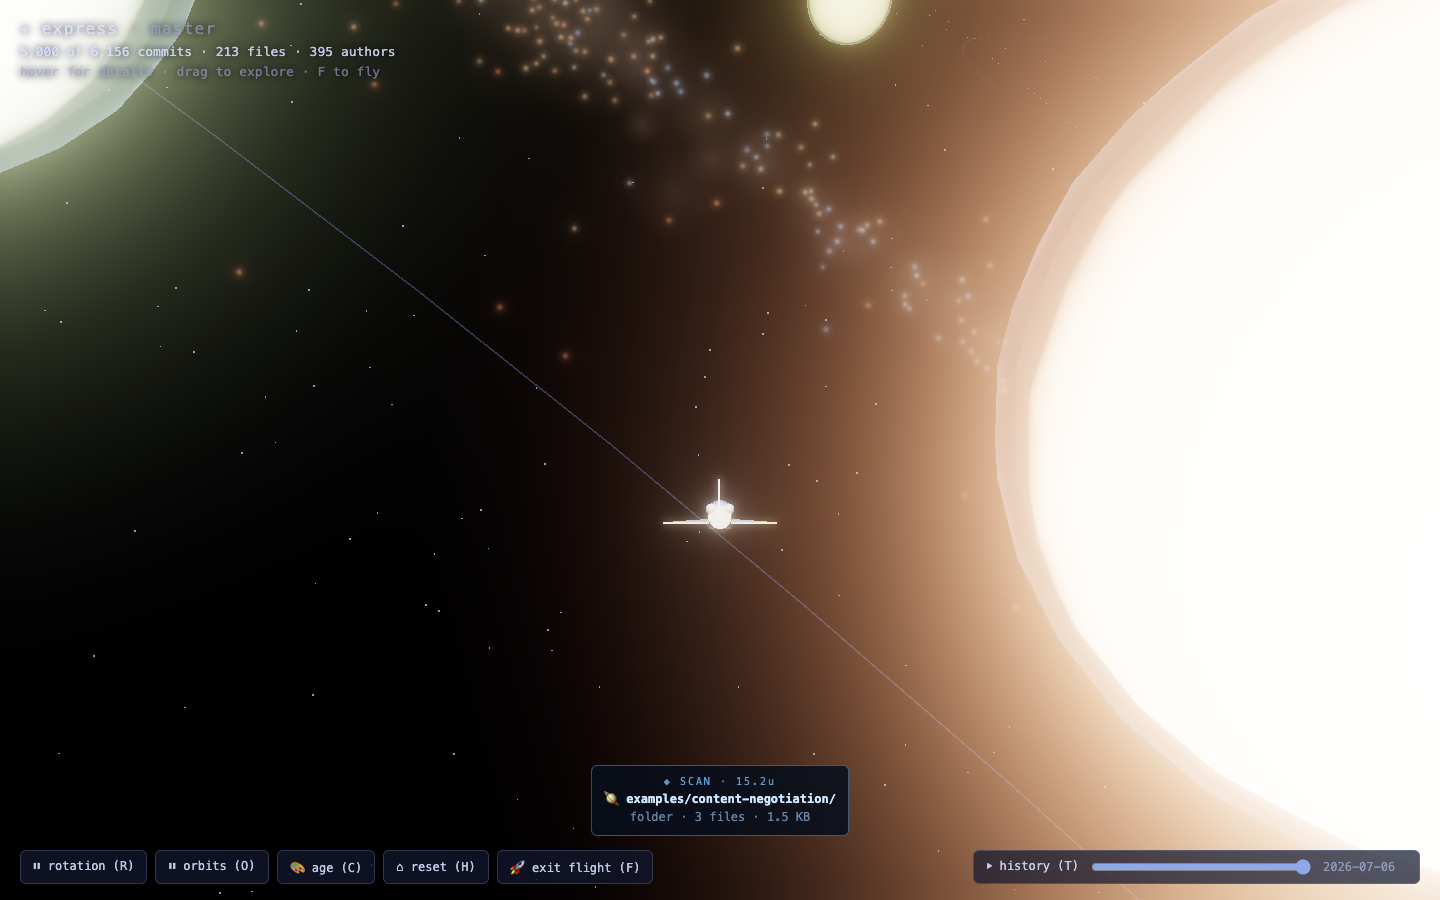
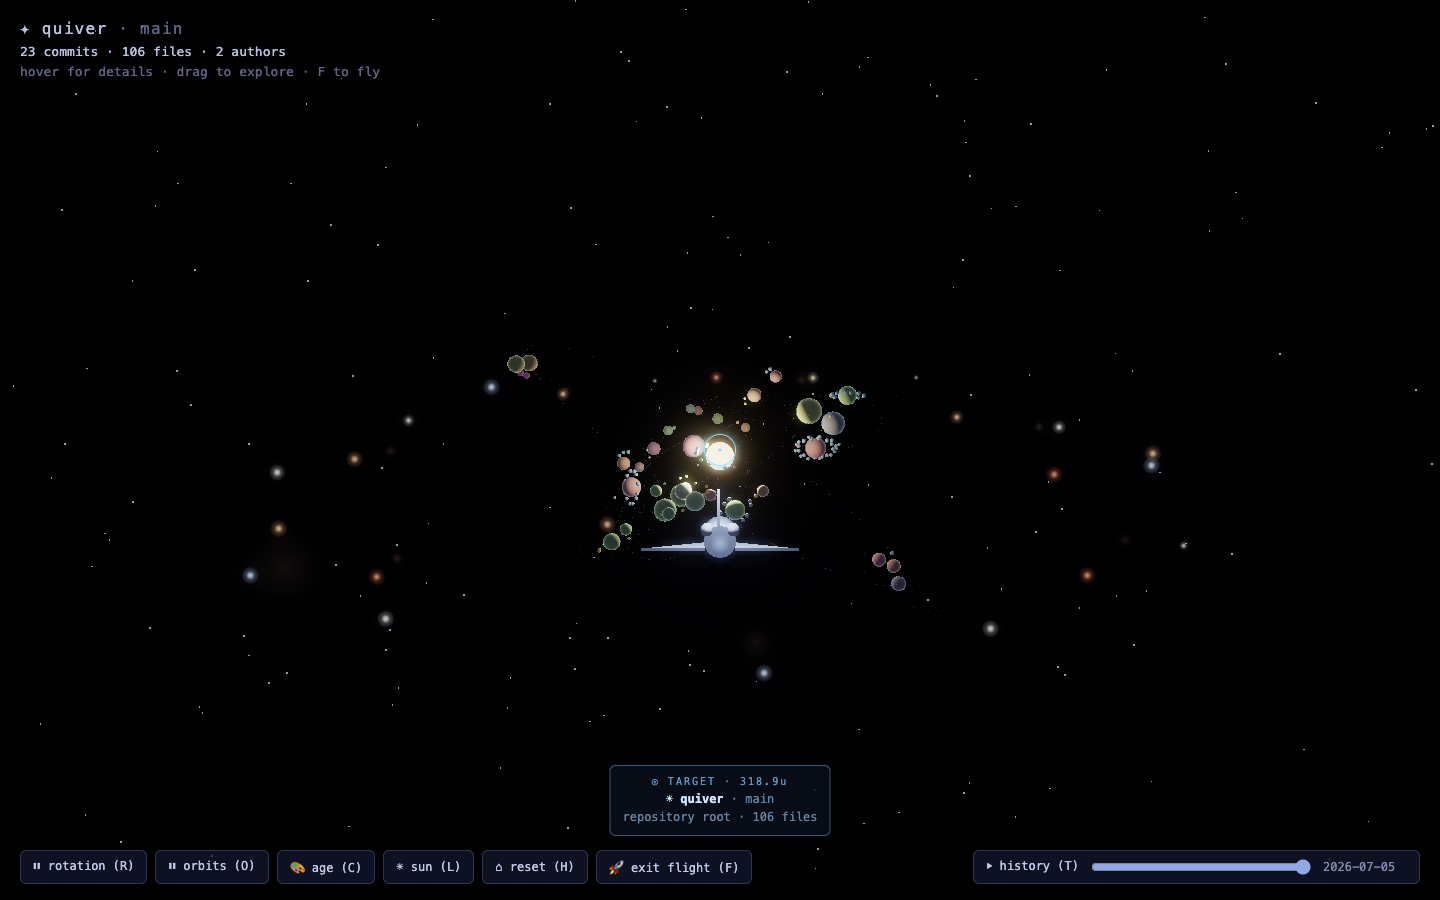
Flight scanner becomes a targeting reticle
Instead of reading out whatever is nearest the ship, a crosshair at
screen center shows what the shuttle is pointed at: precise ray first,
then a small angular aim-assist cone for bodies. The reticle brightens
on lock and the scanner panel shows the target with its range - which
now works at any distance, so you can identify a planet before flying
there. README screenshot updated to the reticle lock.

diff --git a/packages/web/src/main.ts b/packages/web/src/main.ts
@@ -447,6 +447,7 @@ const flight = new FlightController(ship, camera, canvas, (active) => {
   flightBtn.textContent = active ? "🚀 exit flight (F)" : "🚀 fly (F)";
   controls.enabled = !active;
   throttleEl.style.display = active && isTouch ? "block" : "none";
+  if (reticleEl) reticleEl.style.display = active ? "block" : "none";
   if (active) {
     tooltip.hide();
     throttleEl.value = String(Math.round(flight.throttleFraction() * 100));
@@ -471,54 +472,51 @@ throttleEl.addEventListener("input", () => {
 });
 document.body.appendChild(throttleEl);
 
-// Proximity scanner: cursor tooltips don't exist in flight, so the shuttle
-// scans whatever it flies close to instead.
-const BODY_SCAN_RANGE = 30;
-const STAR_SCAN_RANGE = 12;
+// Targeting scanner: the reticle at screen center reads out whatever the
+// shuttle is pointed at — precise ray first, then a small angular
+// aim-assist cone for bodies.
+const RETICLE_ASSIST_PX = 42;
 const scanVec = new THREE.Vector3();
-const scanLocal = new THREE.Vector3();
+const scanCenter = new THREE.Vector2(0, 0);
 let lastScanAt = 0;
+const reticleEl = document.querySelector<HTMLElement>("#reticle");
 
 function scan(): void {
-  let bestHtml: string | null = null;
-  let bestDist = Number.POSITIVE_INFINITY;
-  const shipPos = ship.group.position;
+  let html: string | null = null;
+  let target: THREE.Vector3 | null = null;
 
-  for (const [object, assembly] of bodyOwner) {
-    const d = object.getWorldPosition(scanVec).distanceTo(shipPos);
-    if (d < BODY_SCAN_RANGE && d < bestDist) {
+  raycaster.params.Points.threshold = 2.5;
+  raycaster.setFromCamera(scanCenter, camera);
+  const hit = raycaster.intersectObjects(pickTargets, false)[0];
+  if (hit) {
+    html = htmlForHit(hit);
+    if (html) target = hit.point.clone();
+  }
+
+  if (!html) {
+    // Aim assist: the body closest to the reticle within a small cone.
+    const cx = window.innerWidth / 2;
+    const cy = window.innerHeight / 2;
+    let bestD2 = RETICLE_ASSIST_PX ** 2;
+    for (const [object, assembly] of bodyOwner) {
+      object.getWorldPosition(scanVec).project(camera);
+      if (scanVec.z > 1) continue; // behind the camera
+      const sx = ((scanVec.x + 1) / 2) * window.innerWidth;
+      const sy = ((1 - scanVec.y) / 2) * window.innerHeight;
+      const d2 = (sx - cx) ** 2 + (sy - cy) ** 2;
       const body = object.userData.body as BodyPlacement | undefined;
-      if (body) {
-        bestDist = d;
-        bestHtml = bodyTooltip(assembly, body);
+      if (d2 < bestD2 && body) {
+        bestD2 = d2;
+        html = bodyTooltip(assembly, body);
+        target = object.getWorldPosition(new THREE.Vector3());
       }
     }
   }
 
-  for (const [points, assembly] of starTargets) {
-    // Compare in the starfield's local space (rotating disc, unscaled).
-    scanLocal.copy(shipPos);
-    points.worldToLocal(scanLocal);
-    const placements = assembly.starfield.placements;
-    for (let i = 0; i < placements.length; i++) {
-      const pos = placements[i]?.position;
-      if (!pos) continue;
-      const dx = pos[0] - scanLocal.x;
-      const dy = pos[1] - scanLocal.y;
-      const dz = pos[2] - scanLocal.z;
-      const d = Math.sqrt(dx * dx + dy * dy + dz * dz);
-      if (d < STAR_SCAN_RANGE && d < bestDist) {
-        const html = starTooltip(assembly, i);
-        if (html) {
-          bestDist = d;
-          bestHtml = html;
-        }
-      }
-    }
-  }
-
-  if (bestHtml) {
-    scannerBox.innerHTML = `<div class="scanlabel">◈ SCAN · ${bestDist.toFixed(1)}u</div>${bestHtml}`;
+  reticleEl?.classList.toggle("lock", html !== null);
+  if (html && target) {
+    const range = target.distanceTo(ship.group.position);
+    scannerBox.innerHTML = `<div class="scanlabel">◎ TARGET · ${range.toFixed(1)}u</div>${html}`;
     scannerBox.style.display = "block";
   } else {
     scannerBox.style.display = "none";

diff --git a/packages/web/index.html b/packages/web/index.html
@@ -138,6 +138,35 @@
       #scene {
         touch-action: none; /* OrbitControls owns all touch gestures */
       }
+      /* Flight reticle: what it covers is what the scanner reads. */
+      #reticle {
+        display: none;
+        position: fixed;
+        left: 50%;
+        top: 50%;
+        width: 30px;
+        height: 30px;
+        transform: translate(-50%, -50%);
+        border: 1.5px solid rgba(120, 200, 255, 0.45);
+        border-radius: 50%;
+        pointer-events: none;
+        z-index: 4;
+      }
+      #reticle::after {
+        content: "";
+        position: absolute;
+        left: 50%;
+        top: 50%;
+        width: 3px;
+        height: 3px;
+        transform: translate(-50%, -50%);
+        border-radius: 50%;
+        background: rgba(120, 200, 255, 0.7);
+      }
+      #reticle.lock {
+        border-color: rgba(150, 230, 255, 0.95);
+        box-shadow: 0 0 10px rgba(120, 200, 255, 0.55);
+      }
       /* Flight throttle: a plain horizontal bar in the stacked bottom zones —
          the rotated-vertical version could land partly off-screen. */
       #throttle {
@@ -284,6 +313,7 @@
     <div id="controls"></div>
     <div id="timeline"></div>
     <div id="scanner"></div>
+    <div id="reticle"></div>
     <div id="tooltip"></div>
     <div id="landing"></div>
     <script type="module" src="/src/main.ts"></script>

diff --git a/README.md b/README.md
@@ -23,7 +23,7 @@ node packages/server/dist/cli.js ~/repos --open             # many repos → a u
 
 ![Flying the shuttle into a galactic core](docs/media/flight.png)
 
-While flying, the shuttle **scans whatever it passes** — the nearest commit, folder, or file appears in a HUD readout with its distance. Here, threading through express's nucleus, it's picked up a file 6.6 units away:
+In flight the shuttle carries a **targeting reticle** — center your crosshair on any star, planet, or satellite and it locks, reading the target out in the scanner HUD with its range:
 
 ![The proximity scanner reading out a file while flying through the nucleus](docs/media/flight-scan.png)
 